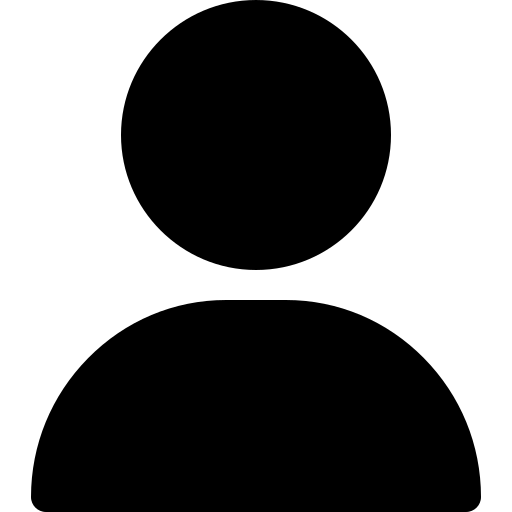
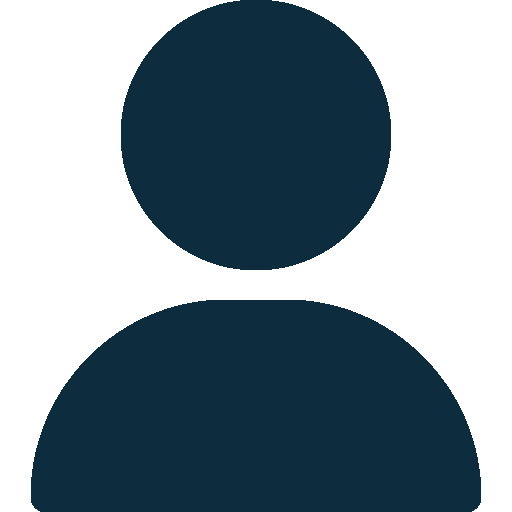
added login

diff --git a/src/main.js b/src/main.js
@@ -141,7 +141,9 @@ function Main() {
             {/* ზედა ფიქსირებული სექცია */}
             <div className="top_section" ref={homeRef}>
                 <div className="top_section_left">
-                    <img className="top_section_left_icon" src={user} alt="nexus logistic icon" onClick={()=>socialLink('https://track.home.pvt.ge/login')}/>
+                    <div className="user_icon_pad">
+                        <img className="top_section_left_icon" src={user} alt="nexus logistic icon" onClick={()=>socialLink('https://track.home.pvt.ge/login')}/>
+                    </div>
                     <p className="top_section_left_txt" onClick={()=>socialLink('https://track.home.pvt.ge/login')}>LOG IN</p>
                 </div>
 

diff --git a/src/main.css b/src/main.css
@@ -88,9 +88,25 @@
     gap: 25px;
 }
 
-.top_section_left_icon{
-    width: 15px;
+.user_icon_pad{
+    
     cursor: pointer;
+    padding: 3px;
+}
+
+.top_section_left_icon{
+    width: 18px;
+    cursor: pointer;
+    transform-style: preserve-3d;
+    transform: perspective(3000px) rotateY(0deg);
+    transition: all 0.3s ease;
+}
+
+.user_icon_pad:hover .top_section_left_icon{
+   
+    transform: perspective(3000px) rotateY(180deg);
+
+    
 }
 
 .top_section_left_txt{
